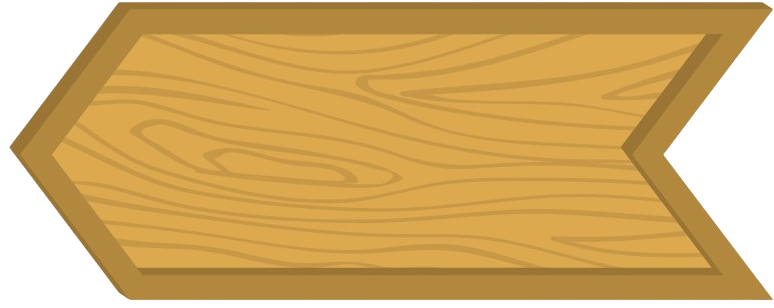
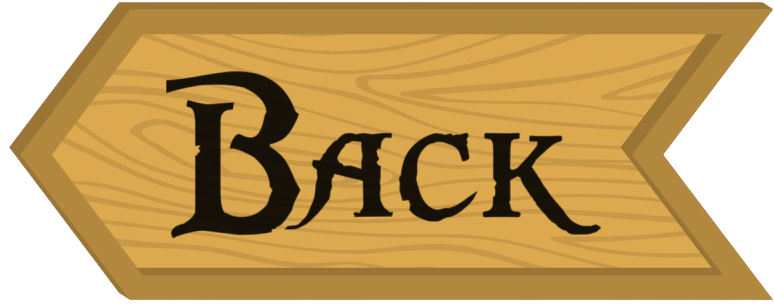
AHHHHH

Changed region(s): [[0.2171, 0.2338, 0.7752, 0.789]]

diff --git a/css/test.css b/css/test.css
@@ -5,9 +5,11 @@
     font-style: normal;
 }
 
+/*
 html,body{
     overflow: hidden;
 }
+*/
 
 body{
     background: url(../img/fond.gif) center/cover ;
@@ -67,6 +69,7 @@ body{
 
 .tete2{
     margin-left: -15%;
+    margin-right: 15%;
 }
 
 #coque img{
@@ -83,10 +86,6 @@ body{
 #bateau{
     margin-bottom: 12%;
 }
-
-
-
-
 
 
 .image-container {
@@ -117,26 +116,16 @@ body{
     color: red;
 }
 
+
 #retour{
-    position: relative;
-    bottom : 115vh;
+    position : relative;
+     top : -104vh;
+    grid-area: rien;
     text-decoration: none;
     color: black;
 }
 
-#retour:hover{
+#img_retour:hover{
     transform: scale(1.07);
     transition: transform 0.3s ease;
-}
-
-#mot_retour{
-    position: relative;
-    margin-top: -4%;
-    left : 8vh;
-    font-family: 'Pirate', Arial, sans-serif;
-
-}
-
-#img_retour{
-    max-width: 12%;
 }

diff --git a/css/global.css b/css/global.css
@@ -48,7 +48,7 @@ h2 {
     transition: transform 0.3s ease; /* Ajoute une transition douce lorsqu'on survole l'image */
 }
 
-.container:hover img {
+.image:hover {
     transform: scale(1.1); /* Agrandit l'image lorsque le conteneur est survolé */
 }
 
@@ -56,20 +56,10 @@ h2 {
     position : relative;
     bottom : 29vh;
 }
-.text {
-    position: absolute;
-    font-size: 110%;
-    top: 50%;
-    left: 50%;
-    transform: translate(-50%, -55%);
-    text-shadow: 2px 2px 2px black;
-    color: white;
-    pointer-events: none; /* Empêche le texte d'interférer avec le clic sur l'image */
-} 
 
 .sailor{
     position: relative;
-    bottom : 250px;
+    bottom: 15vh;
     pointer-events: none;
 }
 

diff --git a/css/regles.css b/css/regles.css
@@ -70,11 +70,3 @@ dl{
     transition: transform 0.3s ease;
 }
 
-#mot_retour{
-    position: relative;
-    bottom: 50px;
-    left : 50px;
-    font-family: 'Pirate', Arial, sans-serif;
-
-}
-

diff --git a/php/game.php b/php/game.php
@@ -20,16 +20,18 @@
                         </figcaption>
                     </figure>
                 </div>
-                <div class="tete2">
-                    <figure id="voile3">
-                        <img src="../img/voilenav.png">
-                    </figure>
-                    <figure id="voile4" class="image-container">
-                        <img src="../img/voilePleine.png">
-                        <figcaption class="overlay-text">
-                            <a href="game.php">Mode <br>campagne</a>
-                        </figcaption>
-                    </figure>
+                <div>
+                    <div class="tete2">
+                        <figure id="voile3">
+                            <img src="../img/voilenav.png">
+                        </figure>
+                        <figure id="voile4" class="image-container">
+                            <img src="../img/voilePleine.png">
+                            <figcaption class="overlay-text">
+                                <a href="game.php">Mode <br>campagne</a>
+                            </figcaption>
+                        </figure>
+                    </div>
                 </div>
             </div>
             <div id="coque">
@@ -37,8 +39,7 @@
             </div>
         </div>
             <a id="retour" href="../index.php">
-                <img id="img_retour" src="../img/bouton_retour.png" alt="Image" style="width:30%">
-                <h2 id="mot_retour">Back</h2>
+                <img id="img_retour" src="../img/bouton_retour.png" alt="Image" style="width:13%">
             </a>
     </body>
 </html>

diff --git a/index.php b/index.php
@@ -8,9 +8,8 @@
 </head>
 <body>
     <h1>Lost Island</h1>
-    <a href="php/game.php" class="container">
-        <img src="img/planches.png" alt="Image" style="width:30%">
-            <h2 id="mot_play">Play</h2>
+    <a href="php/game.php" class="container"> 
+        <img class="image" src="img/planches.png" alt="Image" style="width:30%">
     </a>
     <div class="sailor">
         <img src="img/captain2.gif" alt="Mr le Pirate">

diff --git a/php/regles.php b/php/regles.php
@@ -21,7 +21,6 @@
             <img id="capitaine" src="../img/capitaine.gif" alt="capitaine"/>
             <a id="retour" href="../index.php">
             <img src="../img/bouton_retour.png" alt="Image" style="width:30%">
-            <h2 id="mot_retour">Back</h2>
             </a>
         </div> 
     </body>
